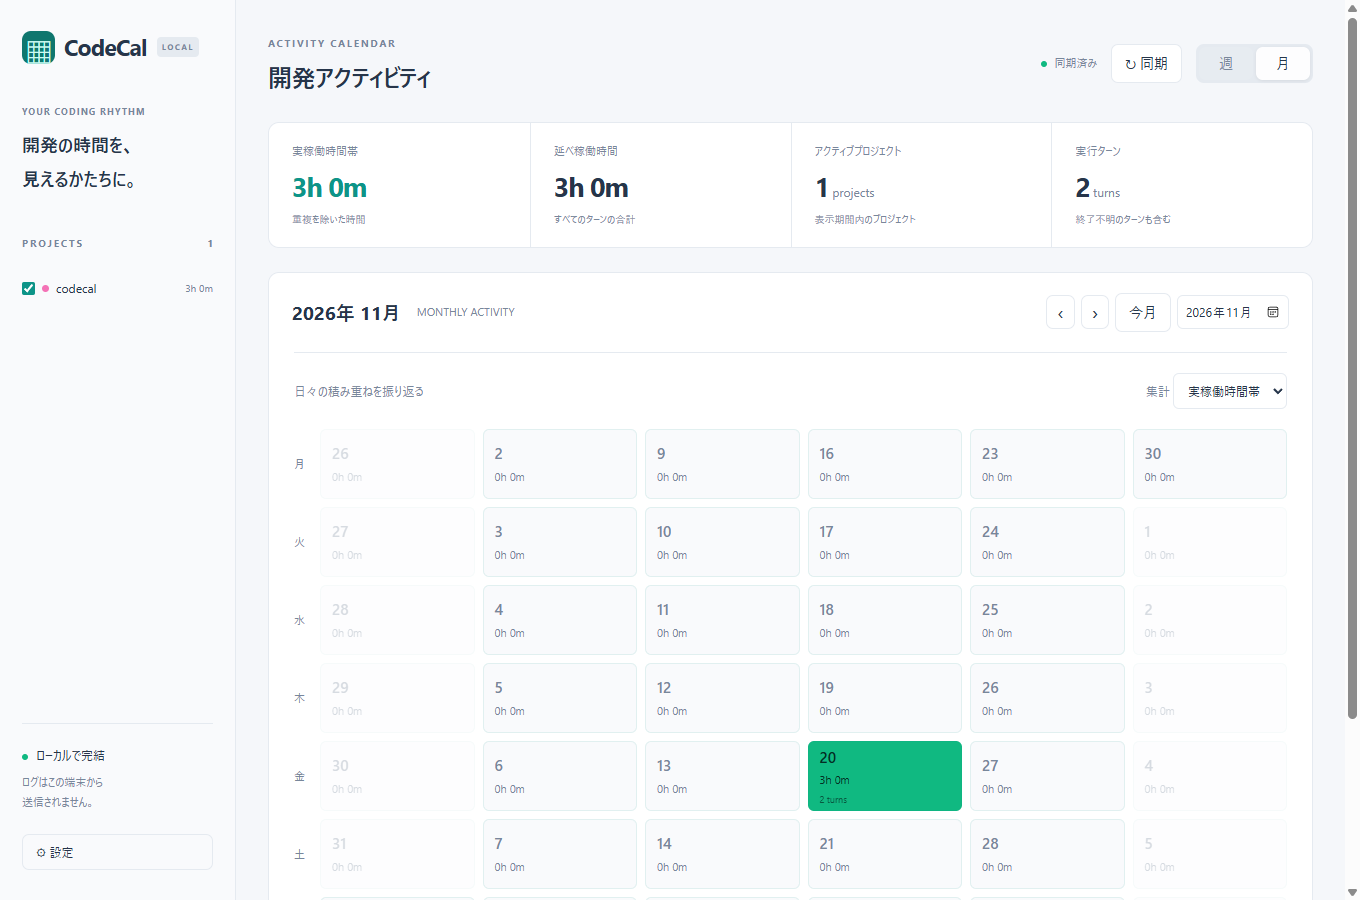
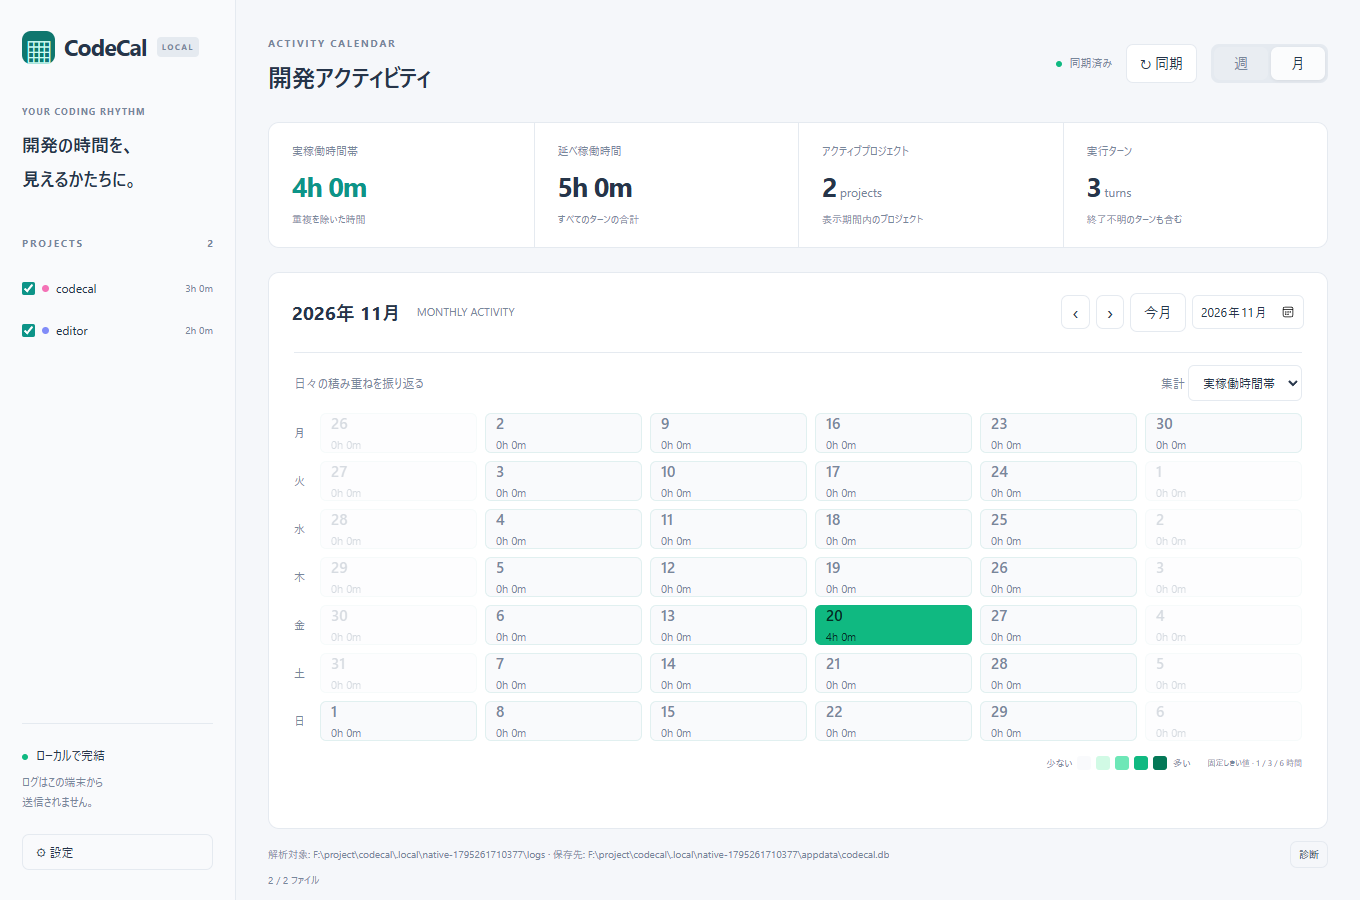
fix(storage): prefer local app data and migrate roaming databases safely

diff --git a/tests/e2e/native.spec.ts b/tests/e2e/native.spec.ts
@@ -180,7 +180,9 @@ test("native Tauri: import, calendars, detail, watch append and restart SQLite",
     await page.getByRole("button", { name: "月", exact: true }).click();
     await page.screenshot({ path: "docs/screenshots/month.png" });
     await page.getByRole("button", { name: "設定", exact: true }).click();
-    await page.getByLabel("テーマ", { exact: true }).selectOption("dark");
+    await page
+      .getByRole("combobox", { name: "テーマ", exact: true })
+      .selectOption("dark");
     await page.getByRole("button", { name: "設定を保存", exact: true }).click();
     await expect(page.locator("html")).toHaveAttribute("data-theme", "dark");
   } finally {

diff --git a/src-tauri/tests/storage.rs b/src-tauri/tests/storage.rs
@@ -1,0 +1,56 @@
+use codecal_lib::{storage::prepare_database, store::Store};
+use std::fs;
+#[test]
+fn uses_local_data_and_migrates_sqlite_including_wal_without_deleting_original() {
+    let tmp = tempfile::tempdir().unwrap();
+    let old = tmp.path().join("roaming");
+    let local = tmp.path().join("local");
+    fs::create_dir_all(&old).unwrap();
+    let store = Store::open(&old.join("codecal.db")).unwrap();
+    store.set_setting("marker", "preserved").unwrap();
+    let path = prepare_database(&local, &old).unwrap();
+    assert_eq!(path, local.join("codecal.db"));
+    assert!(old.join("codecal.db").exists());
+    assert_eq!(
+        Store::open(&path)
+            .unwrap()
+            .get_setting("marker")
+            .unwrap()
+            .as_deref(),
+        Some("preserved")
+    );
+}
+#[test]
+fn never_overwrites_an_existing_local_database() {
+    let tmp = tempfile::tempdir().unwrap();
+    let old = tmp.path().join("roaming");
+    let local = tmp.path().join("local");
+    fs::create_dir_all(&old).unwrap();
+    fs::create_dir_all(&local).unwrap();
+    Store::open(&old.join("codecal.db"))
+        .unwrap()
+        .set_setting("marker", "old")
+        .unwrap();
+    Store::open(&local.join("codecal.db"))
+        .unwrap()
+        .set_setting("marker", "new")
+        .unwrap();
+    let path = prepare_database(&local, &old).unwrap();
+    assert_eq!(
+        Store::open(&path)
+            .unwrap()
+            .get_setting("marker")
+            .unwrap()
+            .as_deref(),
+        Some("new")
+    );
+}
+#[test]
+fn fresh_profile_and_same_directory_need_no_migration() {
+    let tmp = tempfile::tempdir().unwrap();
+    let local = tmp.path().join("local");
+    let path = prepare_database(&local, &local).unwrap();
+    assert_eq!(path, local.join("codecal.db"));
+    assert!(!path.exists());
+    assert!(local.is_dir());
+}

diff --git a/src-tauri/src/storage.rs b/src-tauri/src/storage.rs
@@ -1,0 +1,28 @@
+use rusqlite::{Connection, OpenFlags, MAIN_DB};
+use std::{
+    fs,
+    path::{Path, PathBuf},
+};
+/// Local machine data takes priority. Keep any former roaming database intact.
+pub fn prepare_database(local: &Path, previous: &Path) -> Result<PathBuf, String> {
+    fs::create_dir_all(local).map_err(|e| e.to_string())?;
+    let target = local.join("codecal.db");
+    let source = previous.join("codecal.db");
+    if target.exists() || local == previous || !source.is_file() {
+        return Ok(target);
+    }
+    let source_conn = Connection::open_with_flags(&source, OpenFlags::SQLITE_OPEN_READ_ONLY)
+        .map_err(|e| format!("既存DBを開けません: {e}"))?;
+    let temporary = tempfile::NamedTempFile::new_in(local).map_err(|e| e.to_string())?;
+    // SQLite backup takes a consistent snapshot, including committed WAL pages.
+    source_conn
+        .backup(MAIN_DB, temporary.path(), None)
+        .map_err(|e| format!("DBの移行に失敗しました: {e}"))?;
+    // No-clobber publication also protects an independently created local DB.
+    match temporary.persist_noclobber(&target) {
+        Ok(_) => {}
+        Err(e) if e.error.kind() == std::io::ErrorKind::AlreadyExists => {}
+        Err(e) => return Err(format!("移行先DBを保存できません: {}", e.error)),
+    }
+    Ok(target)
+}

diff --git a/src-tauri/src/desktop.rs b/src-tauri/src/desktop.rs
@@ -155,11 +155,16 @@ pub async fn source_excerpt(app: tauri::AppHandle, id: String) -> Result<String,
 pub fn run() {
     tauri::Builder::default()
         .setup(|app| {
-            let dir = std::env::var_os("CODECAL_DATA_DIR")
-                .map(PathBuf::from)
-                .unwrap_or(app.path().app_data_dir()?);
-            std::fs::create_dir_all(&dir)?;
-            let path = dir.join("codecal.db");
+            let path = if let Some(dir) = std::env::var_os("CODECAL_DATA_DIR") {
+                let dir = PathBuf::from(dir);
+                crate::storage::prepare_database(&dir, &dir)
+            } else {
+                crate::storage::prepare_database(
+                    &app.path().app_local_data_dir()?,
+                    &app.path().app_data_dir()?,
+                )
+            }
+            .map_err(std::io::Error::other)?;
             let store = Store::open(&path).map_err(std::io::Error::other)?;
             app.manage(AppState {
                 store: Mutex::new(store),

diff --git a/src-tauri/src/store.rs b/src-tauri/src/store.rs
@@ -601,7 +601,6 @@ fn read_delta(path: &Path, previous: Option<&Cursor>) -> Result<Delta, String> {
                         .take(65536)
                         .read_until(b'\n', &mut discard)
                         .map_err(err)?;
-                    buf.extend_from_slice(&[]);
                     offset += n as u64;
                     if n == 0 || discard.last() == Some(&b'\n') {
                         break;

diff --git a/src-tauri/src/lib.rs b/src-tauri/src/lib.rs
@@ -5,3 +5,4 @@ pub mod parser;
 pub mod store;
 #[cfg(feature = "desktop")]
 pub use desktop::run;
+pub mod storage;

diff --git a/docs/testing.md b/docs/testing.md
@@ -2,11 +2,11 @@
 
 ## 自動テスト
 
-| 種類              | 範囲                                                                                                                                                                                      |
-| ----------------- | ----------------------------------------------------------------------------------------------------------------------------------------------------------------------------------------- |
-| Rust integration  | JSONL、未知/不正行、UTF-8、ターン対応付け、メタデータ・cwd、SQLite再起動、並列区間、日付跨ぎ・DST、追記断片、切り詰め、重複アーカイブ、リネーム、同サイズ置換、対象範囲、未来スキーマ拒否 |
-| Vitest / RTL      | 週/月の表示、移動、絞り込み、詳細とソース参照、日選択、テーマ保存、空・読み込み・エラー・診断、計算とレーン                                                                               |
-| Playwright native | 合成ログ取り込み→プロジェクト認識→週→詳細/トークン/生ログ→月/日詳細→週→追記自動反映→再起動とSQLite保持                                                                                    |
+| 種類              | 範囲                                                                                                                                                                                                                                       |
+| ----------------- | ------------------------------------------------------------------------------------------------------------------------------------------------------------------------------------------------------------------------------------------ |
+| Rust integration  | JSONL、未知/不正行、UTF-8、ターン対応付け、メタデータ・cwd、SQLite再起動、並列区間、日付跨ぎ・DST、追記断片、切り詰め、重複アーカイブ、リネーム、同サイズ置換、対象範囲、未来スキーマ拒否、Local保存・RoamingからのWAL付き移行・上書き防止 |
+| Vitest / RTL      | 週/月の表示、移動、絞り込み、詳細とソース参照、日選択、テーマ保存、空・読み込み・エラー・診断、計算とレーン                                                                                                                                |
+| Playwright native | 合成ログ取り込み→プロジェクト認識→週→詳細/トークン/生ログ→月/日詳細→週→追記自動反映→再起動とSQLite保持                                                                                                                                     |
 
 Windowsの実行ファイルをビルドしてから npm run test:e2e を実行します。通常のブラウザーをモックしたE2Eではありません。WebView2のローカルCDPポート9223へPlaywrightが接続し、Rust IPCとSQLiteを含めて検証します。テスト時だけWebView2の追加起動引数を渡します。製品からリモートデバッグは有効化しません。
 
@@ -16,7 +16,7 @@ E2Eは .local/native-時刻/ にログとデータを隔離します。再起動
 
 2026-11-21にローカルの189ファイル・約403MBを読み取り専用で検証し、15プロジェクト・2,328ターン、11日分の集計を取得。初回処理は約16.6秒（この端末、デバッグビルド、SQLite新規）。観測時の状態は完了2,320、中断7、終了不明1でした。現在の作業ログも追記され続けるため、以後の件数・バイト数は変わります。値の入ったログはリポジトリに保存していません。
 
-合成ログの未変更再同期は0バイト読み取りをテストしています。実ログの直後の再同期では実行中のログへ追記があったため約14KBを読みました。この結果を未変更0バイトの実証とはみなしません。
+合成ログの未変更再同期は、新規JSONL行の取り込み0バイトをテストしています。ファイル識別用の先頭部分の読み取りは別途発生します。実ログの直後の再同期では実行中のログへ追記があったため約14KBを読みました。この結果を未変更0バイトの実証とはみなしません。
 
 ## 検証の限界
 

diff --git a/docs/architecture.md b/docs/architecture.md
@@ -27,3 +27,7 @@ FullCalendar Standardの非Premiumプラグインは [公式ライセンス](htt
 ## 次の改善
 
 現在は同期時に正規化キャッシュから派生テーブルを再構築します。巨大履歴にはセッション単位の再構築と期間限定IPCを追加できます。OS固有の保存場所と監視処理はdesktop層に閉じ、パーサーはPath/UTCを使用します。
+
+## ローカル保存先
+
+端末固有ログの派生DBには `app_local_data_dir()` を使用します。WindowsはAppData/Local、macOSはLibrary/Application Support、LinuxはXDG_DATA_HOME（既定 .local/share）です。Windowsの旧Roaming保存先からは、LocalにDBがない場合だけSQLite backup APIでWALを含む整合したコピーを作り、上書き禁止の確定処理を使います。旧DBは削除しません。CODECAL_DATA_DIRを明示した場合は指定先だけを使い、通常プロファイルから移行しません。
